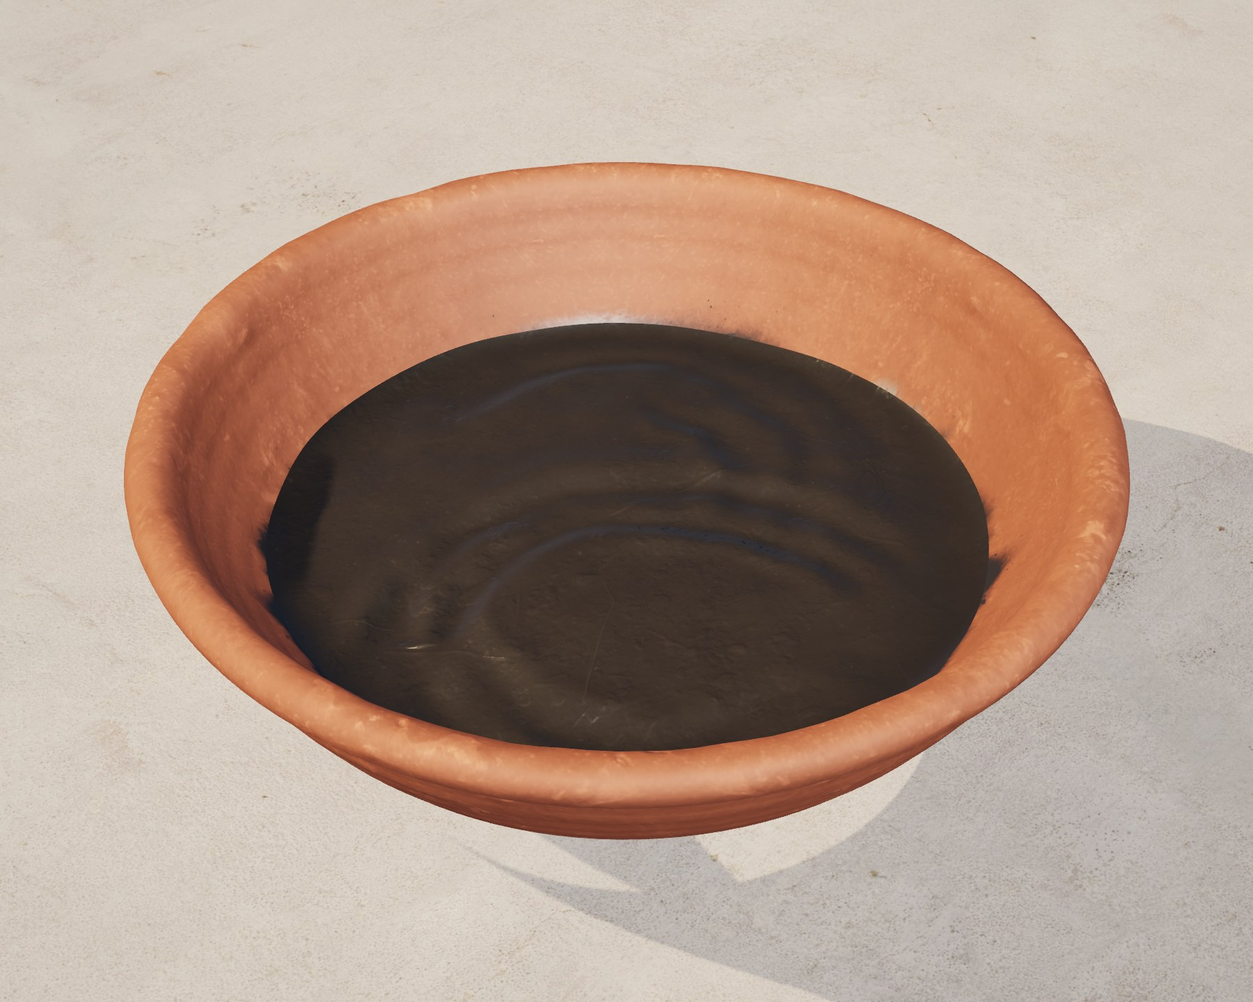
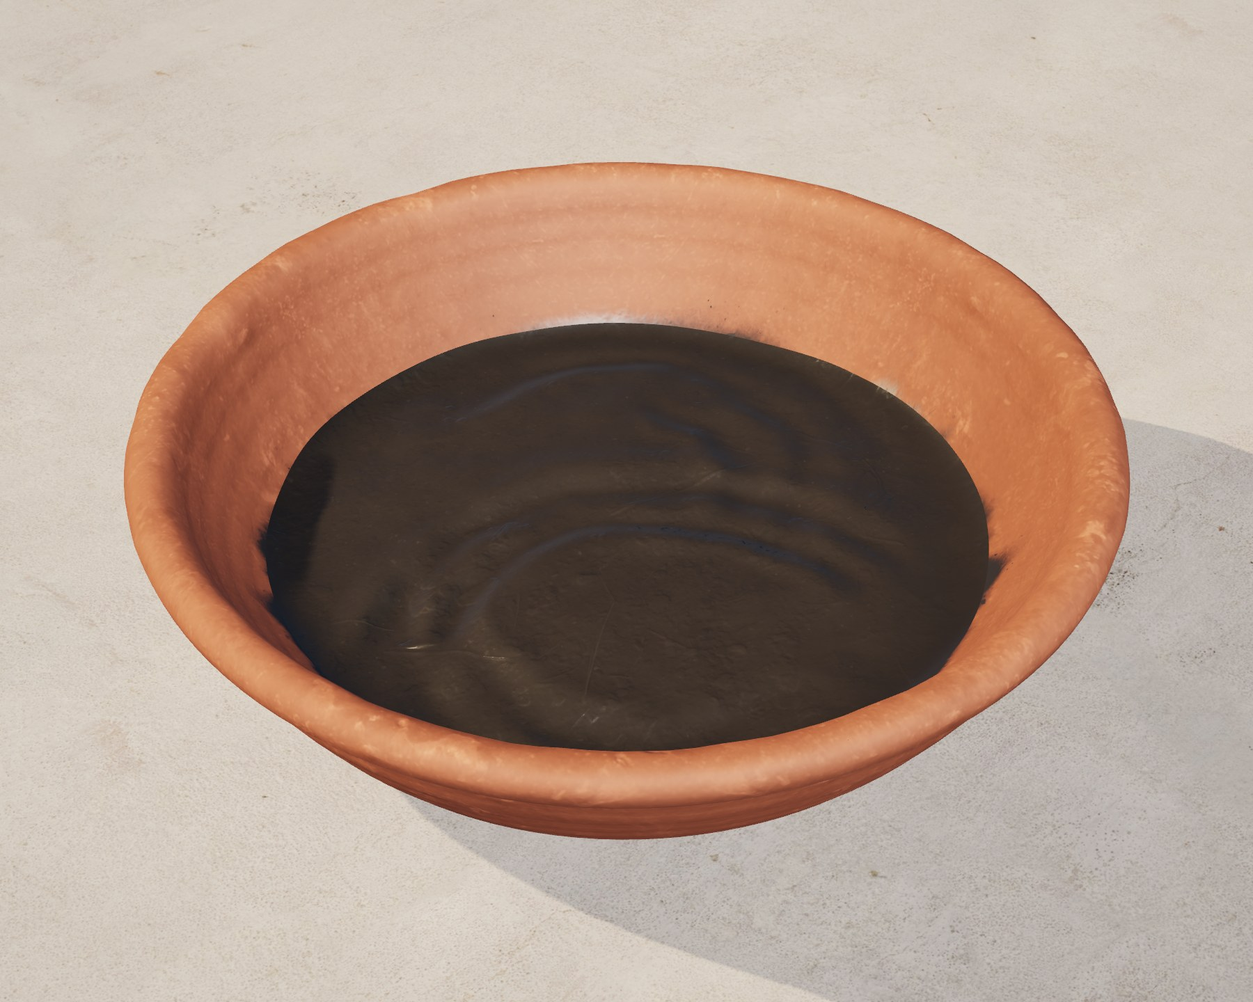
Admit only staff roles at the invite gate, withdraw every session, analyse a reassigned participant once, and let clay vessels stop the sun (DR-105)
hasSiteAccess admitted any signed-in account, so a role-less Google sign-up
could start the demo or enrol in a study without an invite. Withdrawal now
flags every session of the participant, and analytics and the dashboard
telemetry read a reassigned participant in the condition of their analysed
session only. The fired-clay material casts shadows from both faces, so the
shadow bias no longer erases the lower wall and sunlight stops leaking under
the bowl. The 28 Door 1 stills that hold a bowl or pot were rendered again.

Changed region(s): [[0.56, 0.75, 0.7467, 0.875], [0.3111, 0.7812, 0.4978, 0.9062]]

diff --git a/src/server/research/analytics.ts b/src/server/research/analytics.ts
@@ -100,46 +100,40 @@ export interface MetricDistribution {
   nullCount: number;
 }
 
-const ANALYSABLE = "NOT ss.excluded AND NOT ss.withdrawn";
+const ANALYSED_SESSIONS_SQL = `
+  SELECT DISTINCT ON (participant_id) participant_id, id, condition_id, excluded, withdrawn
+    FROM study_sessions
+   WHERE study_id = $1 AND condition_id IS NOT NULL
+   ORDER BY participant_id, period DESC, id DESC`;
 
-/**
- * Outcome distributions from derived_scores: one value per analysable, allocated session and
- * administration (latest row per session, metric, version, assessment and map phase).
- *
- * Final review scoring-07:
- *  - response-level rows (item.key_match, rubric.rating.*) are left out: one session has one row
- *    per item, so a per-session distribution would keep an arbitrary item (the per-item and
- *    per-rubric statistics are on the dashboard);
- *  - each administration is its own distribution: concept-map scores by map phase (one assessment
- *    yields a pre and a post map), every other score by assessment kind, code and version, so the
- *    pre-test, post-test and transfer totals are never pooled (prior knowledge vs outcome);
- *  - concept-map scores are read against the study's analysis reference map only (scoring-04).
- */
+const ANALYSABLE = "NOT an.excluded AND NOT an.withdrawn";
+
 export async function outcomeDistributions(q: Q, studyId: string, opts: { includeExcluded?: boolean } = {}): Promise<MetricDistribution[]> {
   const r = await q.query<{ metric_name: string; metric_version: string; condition_id: string; value: number | null }>(
-    `WITH ar AS (${ANALYSIS_REFERENCES_SQL})
-     SELECT DISTINCT ON (ds.session_id, ds.metric_name, ds.metric_version, ds.assessment_id, cm.phase)
+    `WITH ar AS (${ANALYSIS_REFERENCES_SQL}), an AS (${ANALYSED_SESSIONS_SQL})
+     SELECT DISTINCT ON (an.id, ds.metric_name, ds.metric_version, ds.assessment_id, cm.phase)
             CASE WHEN cm.phase IS NOT NULL THEN ds.metric_name || ' (' || cm.phase::text || ')'
                  ELSE ds.metric_name || ' (' || a.kind::text || ' ' || a.code || ' v' || a.version || ')' END AS metric_name,
-            ds.metric_version, ss.condition_id, ds.value
+            ds.metric_version, an.condition_id, ds.value
        FROM derived_scores ds JOIN study_sessions ss ON ss.id = ds.session_id
+       JOIN an ON an.participant_id = ss.participant_id
        JOIN assessments a ON a.id = ds.assessment_id
        LEFT JOIN concept_maps cm ON cm.id = ds.concept_map_id
        LEFT JOIN ar ON ar.assessment_id = ds.assessment_id
-      WHERE ss.study_id = $1 AND ss.condition_id IS NOT NULL AND ($2 OR (${ANALYSABLE}))
+      WHERE ss.study_id = $1 AND ($2 OR (${ANALYSABLE}))
         AND ds.response_id IS NULL
         AND (ds.concept_map_id IS NULL OR ds.reference_map_id IS NOT DISTINCT FROM ar.reference_map_id)
-      ORDER BY ds.session_id, ds.metric_name, ds.metric_version, ds.assessment_id, cm.phase, ds.computed_at DESC`,
+      ORDER BY an.id, ds.metric_name, ds.metric_version, ds.assessment_id, cm.phase, ss.period DESC, ds.computed_at DESC`,
     [studyId, opts.includeExcluded ?? false],
   );
   return group(r.rows);
 }
 
-/** Behavioural metric distributions from derived_metrics. */
 export async function behaviourDistributions(q: Q, studyId: string, opts: { includeExcluded?: boolean } = {}): Promise<MetricDistribution[]> {
   const r = await q.query<{ metric_name: string; metric_version: string; condition_id: string; value: number | null }>(
-    `SELECT dm.metric_name, dm.metric_version, dm.condition_id, dm.value
-       FROM derived_metrics dm JOIN study_sessions ss ON ss.id = dm.session_id
+    `WITH an AS (${ANALYSED_SESSIONS_SQL})
+     SELECT dm.metric_name, dm.metric_version, dm.condition_id, dm.value
+       FROM derived_metrics dm JOIN an ON an.id = dm.session_id
       WHERE dm.study_id = $1 AND ($2 OR (${ANALYSABLE}))`,
     [studyId, opts.includeExcluded ?? false],
   );
@@ -157,10 +151,10 @@ function group(rows: { metric_name: string; metric_version: string; condition_id
   return [...by.values()].sort((a, b) => (a.metricName < b.metricName ? -1 : 1));
 }
 
-/** Correspondence details (navigation vs concept map) summed per condition. */
 export async function correspondenceSummary(q: Q, studyId: string) {
   const r = await q.query<{ condition_id: string; details: Record<string, number | boolean> }>(
-    `SELECT dm.condition_id, dm.details FROM derived_metrics dm JOIN study_sessions ss ON ss.id = dm.session_id
+    `WITH an AS (${ANALYSED_SESSIONS_SQL})
+     SELECT dm.condition_id, dm.details FROM derived_metrics dm JOIN an ON an.id = dm.session_id
       WHERE dm.study_id = $1 AND dm.metric_name = 'nav.map_correspondence' AND ${ANALYSABLE}`,
     [studyId],
   );
@@ -183,13 +177,10 @@ export interface TransitionMatrix {
   transitions: number;
 }
 
-/**
- * First-order transition matrices between knowledge categories of consecutive concept visits
- * (visit = exposure interval; ../metrics/navigation.ts), per condition.
- */
 export async function transitionMatrices(q: Q, studyId: string): Promise<TransitionMatrix[]> {
   const sess = await q.query<{ id: string; condition_id: string; snapshot_id: string | null }>(
-    `SELECT ss.id, ss.condition_id, ss.snapshot_id FROM study_sessions ss WHERE ss.study_id = $1 AND ${ANALYSABLE}`,
+    `WITH an AS (${ANALYSED_SESSIONS_SQL})
+     SELECT an.id, an.condition_id, ss.snapshot_id FROM an JOIN study_sessions ss ON ss.id = an.id WHERE ${ANALYSABLE}`,
     [studyId],
   );
   const labels = [...KNOWLEDGE_CATEGORY_CODES];

diff --git a/tests/integration/study-engine-review-fixes.test.ts b/tests/integration/study-engine-review-fixes.test.ts
@@ -30,10 +30,13 @@ import {
   completeFamiliarisation,
   submitAssessment,
   syncPosition,
+  withdraw,
   type DeviceReport,
   type EnrollableStudy,
   type OpenedSession,
 } from "../../src/server/study/engine";
+import { behaviourDistributions, outcomeDistributions, transitionMatrices } from "../../src/server/research/analytics";
+import { loadDashboard } from "../../src/server/research/dashboard";
 import { seedInstrumentDefinitions } from "../../src/server/study/instruments";
 import {
   TEST_URL,
@@ -279,5 +282,42 @@ describe.skipIf(!TEST_URL)("study engine: final review fixes", { timeout: 60_000
     expect(attempts.rows).toEqual([{ session_id: s.sessionId, attempt: 1 }, { session_id: out.sessionId, attempt: 2 }]);
     const order = (await state(out.sessionId)).traditionOrder;
     expect(order).toEqual((await state(s.sessionId)).traditionOrder);
+  });
+
+  it("a reassigned participant is analysed once, in the arm of the session that replaced the abandoned one, and withdrawing withdraws both", async () => {
+    const study = await activeStudy({ steps: BASIC_STEPS, webglFailurePolicy: "reassign" }, BASIC);
+    const s = await allocatedTo(study, "immersive");
+    await completeOnboarding(t.pool, s.sessionId);
+    const out = await recordWalkthroughWebglFailure(t.pool, s.sessionId, { webglVersion: null, softwareRenderer: false }, { appBuild: BUILD });
+    expect(out.kind).toBe("reassigned");
+    if (out.kind !== "reassigned") return;
+    const conditionOf = async (sessionId: string) => (await one<{ c: string }>(t.pool, "SELECT condition_id AS c FROM study_sessions WHERE id = $1", [sessionId])).c;
+    const immersiveId = await conditionOf(s.sessionId);
+    const twoDId = await conditionOf(out.sessionId);
+    await t.pool.query(
+      `INSERT INTO derived_metrics (study_id, participant_id, session_id, condition_id, metric_name, metric_version, value, input_event_count, input_sha256, pipeline_version)
+       VALUES ($1, $2, $3, $4, 'time.exposure_total_ms', '1.0.0', 1000, 0, $5, 'test')`,
+      [study.id, s.participantId, s.sessionId, immersiveId, "a".repeat(64)],
+    );
+    await t.pool.query(
+      "INSERT INTO derived_scores (session_id, participant_id, assessment_id, metric_name, metric_version, value, pipeline_version) VALUES ($1, $2, $3, 'assessment.key_match_total', '1.0.0', 2, 'test')",
+      [s.sessionId, s.participantId, ids["fx-pre"]],
+    );
+    const preTotal = async () => (await outcomeDistributions(t.pool, study.id)).find((d) => d.metricName === "assessment.key_match_total (pretest fx-pre v1)");
+    expect(Object.keys((await preTotal())?.byCondition ?? {})).toEqual([twoDId]);
+    expect((await preTotal())!.byCondition[twoDId]).toEqual([2]);
+    expect(await behaviourDistributions(t.pool, study.id)).toEqual([]);
+    expect((await transitionMatrices(t.pool, study.id)).map((m) => m.conditionId)).toEqual([twoDId]);
+    const ownRows = async () => (await loadDashboard(t.pool, study.id))!.telemetry.sessions.filter((r) => r.sessionId === s.sessionId || r.sessionId === out.sessionId);
+    const dashboard = (await loadDashboard(t.pool, study.id))!;
+    expect((await ownRows()).map((r) => [r.sessionId, r.conditionId])).toEqual([[out.sessionId, twoDId]]);
+    expect(dashboard.knowledge.find((k) => k.label === "fx-pre v1 (pretest)")!.byCondition.find((c) => c.conditionId === immersiveId)?.stats.n ?? 0).toBe(0);
+
+    await withdraw(t.pool, { participantId: s.participantId, sessionId: out.sessionId, reason: "no_time" });
+    const flags = await t.pool.query<{ id: string; withdrawn: boolean }>("SELECT id, withdrawn FROM study_sessions WHERE participant_id = $1 ORDER BY period", [s.participantId]);
+    expect(flags.rows).toEqual([{ id: s.sessionId, withdrawn: true }, { id: out.sessionId, withdrawn: true }]);
+    expect(await preTotal()).toBeUndefined();
+    expect(await behaviourDistributions(t.pool, study.id, { includeExcluded: true })).toHaveLength(0);
+    expect(await ownRows()).toEqual([]);
   });
 });

diff --git a/src/server/access/site-access.ts b/src/server/access/site-access.ts
@@ -1,14 +1,3 @@
-/**
- * Server-side half of the invite gate (deployment source change S11).
- *
- * src/proxy.ts redirects visitors without an invite cookie (or a staff session cookie) before a
- * page renders, but it only verifies the cookie's signature and does not look at the database,
- * and it trusts the mere presence of a staff session cookie. The entry points that create a
- * study or demo session (`enterStudy`, `startPublicDemo`) call `requireSiteAccess` as well, so a
- * forged staff cookie or a revoked code can never start one:
- *  - a verified staff session (Better Auth, via getStaffPrincipal) passes;
- *  - otherwise the invite cookie must verify AND its code must not be revoked.
- */
 import "server-only";
 
 import { cookies } from "next/headers";
@@ -17,23 +6,23 @@ import { cache } from "react";
 
 import { invitePath } from "@/lib/access/invite-paths";
 import { serverEnv } from "@/lib/env";
+import { isStaffRole } from "@/lib/permissions/roles";
 import { getStaffPrincipal } from "@/server/auth/staff";
 import { getPool } from "@/server/db/client";
 
 import { INVITE_COOKIE, verifyInviteAccess } from "./invite-cookie";
 import { inviteNotRevoked } from "./invites";
 
-/** Does this request carry valid site access? Memoised per request. */
 export const hasSiteAccess = cache(async (): Promise<boolean> => {
   const token = (await cookies()).get(INVITE_COOKIE)?.value;
   if (token !== undefined) {
     const verified = await verifyInviteAccess(token, serverEnv().BETTER_AUTH_SECRET);
     if (verified.ok && (await inviteNotRevoked(getPool(), verified.claims.inviteId))) return true;
   }
-  return (await getStaffPrincipal()) !== null;
+  const principal = await getStaffPrincipal();
+  return principal !== null && principal.roles.some(isStaffRole);
 });
 
-/** Redirects to the invite page (remembering `next`) unless the request has site access. */
 export async function requireSiteAccess(next: string): Promise<void> {
   if (!(await hasSiteAccess())) redirect(invitePath(next));
 }

diff --git a/src/server/study/engine.ts b/src/server/study/engine.ts
@@ -1712,12 +1712,6 @@ export async function closeStaleSessions(pool: Pool | PoolClient, studyId: strin
 export const WITHDRAWAL_REASONS = ["not_stated", "no_longer_wish_to_take_part", "no_time", "technical_problem", "felt_unwell"] as const;
 export type WithdrawalReason = (typeof WITHDRAWAL_REASONS)[number];
 
-/**
- * Withdraws the participant at any point: a `withdrawn` consent record, the participant marked
- * withdrawn, and the open session (if any) flagged withdrawn. Nothing is deleted: the data
- * already collected is kept under the study's retention policy (config.retentionDays); removing
- * it is a separate, reasoned purge by the research team (app.research_purge_reason).
- */
 export async function withdraw(pool: Pool | PoolClient, input: { participantId: string; sessionId?: string | null; reason: WithdrawalReason }): Promise<{ retentionDays: number | null }> {
   return withTx(pool, async (c) => {
     const p = await loadParticipant(c, input.participantId);
@@ -1740,8 +1734,8 @@ export async function withdraw(pool: Pool | PoolClient, input: { participantId: 
     const sessionId = input.sessionId ?? p.sessionId;
     const retentionDays = study.protocol.config.retentionDays ?? null;
     const after = { reason: input.reason, retentionDays, dataKept: true };
+    await c.query("UPDATE study_sessions SET withdrawn = true, withdrawn_at = coalesce(withdrawn_at, now()) WHERE participant_id = $1 AND NOT withdrawn", [p.id]);
     if (sessionId) {
-      await c.query("UPDATE study_sessions SET withdrawn = true, withdrawn_at = coalesce(withdrawn_at, now()) WHERE id = $1 AND participant_id = $2", [sessionId, p.id]);
       await journal(c, { kind: "participant", code: p.code }, "study.participant_withdrawn", "study_session", sessionId, after);
     } else {
       await journal(c, { kind: "participant", code: p.code }, "study.participant_withdrawn", "participant", p.id, after);

diff --git a/tests/unit/access/site-access.test.ts b/tests/unit/access/site-access.test.ts
@@ -1,0 +1,43 @@
+import { beforeEach, describe, expect, it, vi } from "vitest";
+
+const state = vi.hoisted(() => ({
+  principal: null as null | { roles: readonly string[] },
+  redirected: [] as string[],
+}));
+
+vi.mock("next/headers", () => ({ cookies: async () => ({ get: () => undefined }) }));
+vi.mock("next/navigation", () => ({
+  redirect: (to: string) => {
+    state.redirected.push(to);
+    throw new Error(`redirect ${to}`);
+  },
+}));
+vi.mock("react", async (importOriginal) => ({ ...(await importOriginal<object>()), cache: <T>(fn: T) => fn }));
+vi.mock("@/server/auth/staff", () => ({ getStaffPrincipal: async () => state.principal }));
+vi.mock("@/server/db/client", () => ({ getPool: () => ({}) }));
+
+const { hasSiteAccess, requireSiteAccess } = await import("@/server/access/site-access");
+
+describe("server-side invite gate", () => {
+  beforeEach(() => {
+    state.principal = null;
+    state.redirected = [];
+  });
+
+  it("refuses a signed-in account that holds no staff role, as a fresh Google sign-up does", async () => {
+    state.principal = { roles: [] };
+    expect(await hasSiteAccess()).toBe(false);
+    await expect(requireSiteAccess("/study")).rejects.toThrow("redirect");
+    expect(state.redirected).toEqual(["/invite?next=%2Fstudy"]);
+  });
+
+  it("refuses a visitor with neither an invite nor a session", async () => {
+    expect(await hasSiteAccess()).toBe(false);
+  });
+
+  it("admits a signed-in account that holds a staff role", async () => {
+    state.principal = { roles: ["researcher"] };
+    expect(await hasSiteAccess()).toBe(true);
+    await expect(requireSiteAccess("/explore")).resolves.toBeUndefined();
+  });
+});

diff --git a/tests/e2e/staff-and-access.spec.ts b/tests/e2e/staff-and-access.spec.ts
@@ -110,6 +110,20 @@ test("a signed-in account without a role waits at /awaiting-access until an admi
     await expect(page, path).toHaveURL(/\/awaiting-access$/);
   }
 
+  const uninvited = await newContext(browser, UNINVITED);
+  const stranger = await uninvited.newPage();
+  await signInStaff(stranger, WAITING, PASSWORD);
+  await expect(stranger).toHaveURL(/\/awaiting-access$/);
+  await stranger.goto("/explore");
+  await stranger.getByRole("button", { name: /^Open / }).first().click();
+  await expect(stranger).toHaveURL(/\/invite\?next=%2Fexplore/);
+  await stranger.goto("/study");
+  await stranger.getByLabel("Study code").fill(JOURNEY_STUDY);
+  await stranger.getByRole("button", { name: "Continue" }).click();
+  await expect(stranger).toHaveURL(/\/invite\?next=%2Fstudy/);
+  expect((await uninvited.cookies()).map((c) => c.name).filter((name) => /ie_demo|ie_study_session/.test(name))).toEqual([]);
+  await uninvited.close();
+
   const adminContext = await newContext(browser);
   const admin = await adminContext.newPage();
   await signInStaff(admin, ADMIN, PASSWORD);

diff --git a/tests/unit/walkthrough/vessel-shadow.test.ts b/tests/unit/walkthrough/vessel-shadow.test.ts
@@ -1,0 +1,19 @@
+import * as THREE from "three";
+import { describe, expect, it } from "vitest";
+import { buildThrownVessel } from "@/features/walkthrough/infrastructure/built-vessels";
+import type { MaterialLibrary } from "@/features/walkthrough/infrastructure/material-library";
+
+const library = {
+  shared: <T extends object>(_key: string, build: () => Promise<T>) => build(),
+  scan: async () => ({ colour: new THREE.Texture(), normal: new THREE.Texture(), roughness: new THREE.Texture(), tileMetres: 0.36 }),
+} as unknown as MaterialLibrary;
+
+describe.each(["clay-bowl", "clay-pot"] as const)("thrown %s shadow", (shape) => {
+  it("draws both faces into the shadow map, so the base stops the sun on the ground beside its foot", async () => {
+    const vessel = (await buildThrownVessel(library, shape)) as THREE.Mesh;
+    const material = vessel.material as THREE.MeshStandardMaterial;
+    expect(vessel.castShadow).toBe(true);
+    expect(material.side).toBe(THREE.FrontSide);
+    expect(material.shadowSide).toBe(THREE.DoubleSide);
+  });
+});

diff --git a/src/features/walkthrough/infrastructure/built-vessels.ts b/src/features/walkthrough/infrastructure/built-vessels.ts
@@ -22,5 +22,6 @@ function thrownGeometry(form: ThrownForm): THREE.BufferGeometry {
 
 export async function buildThrownVessel(library: MaterialLibrary, shape: ThrownShape): Promise<THREE.Object3D> {
   const [geometry, material] = await Promise.all([library.shared(`thrown:${shape}`, async () => thrownGeometry(FORMS[shape])), projectedMaterial(library, FIRED_CLAY)]);
+  material.shadowSide = THREE.DoubleSide;
   return solidMesh(geometry, material);
 }

diff --git a/src/server/research/dashboard.ts b/src/server/research/dashboard.ts
@@ -458,7 +458,7 @@ export async function loadDashboard(q: Q, studyId: string, opts: LoadOptions = {
   }
   const telemetrySessions: SessionTelemetryRow[] = [];
   for (const s of sessionInfo.values()) {
-    if (!s.inScope || !s.conditionId) continue;
+    if (!s.inScope || !s.conditionId || analysedSessionOf(s.id) !== s.id) continue;
     const t = tel(s.id);
     telemetrySessions.push({
       sessionId: s.id,

diff --git a/docs/research/design-process/decisions.md b/docs/research/design-process/decisions.md
@@ -3634,3 +3634,13 @@ novice met, and none touches the sheet.
 - **Iris Xe route:** two Ajrakh runs on the headless shell were stopped by a free-RAM guard; the second reached leg 3 with the largest headless-shell process at 7633 MB and free RAM at 291 MB (leg 2 worst frame 34 ms). This is DR-099's open texture-upload cost; the Sanganeri and Kalamkari Iris Xe routes were not attempted for that reason.
 - **Removed:** the low-spec Playwright project matched `immersive-rendering.spec.ts`, deleted with the old doors in DR-076; it now matches only the renderer check.
 - **Paper implications:** none for the study design. The e2e figures above are engineering checks of the study flow, not study data.
+
+## DR-105: The Invite Gate Admits Only Staff Roles; Withdrawal Covers Every Session; A Reassigned Participant Is Analysed Once; Clay Vessels Stop The Sun (Adopted under the lead's delegation, 2026-11-06)
+- **Trigger:** seven review findings against `walking-the-process` at cafa873. Each was confirmed by reading the code or by running it before anything was changed. DR-101 to DR-104 are left to the parallel workflow branches, one of which already uses DR-104.
+- **Invite gate (confirmed, fixed).** `hasSiteAccess` let any signed-in Better Auth account through, so a Google sign-up with no role (DR-096) could start the public demo or enrol in a live study without an invite code. Now an account passes only when it holds a staff role (`roles.some(isStaffRole)`, the same test that `telemetry/principal.ts` and `learning-decision.ts` apply). The proxy still treats a session cookie as admitted, because it cannot read roles without the database. Such an account can read the public information pages and nothing more. RUNBOOK 6.4 now says this. Tests: `tests/unit/access/site-access.test.ts` (it fails against the old code), and the awaiting-access e2e signs a role-less account in from a browser with no invite. Opening the demo and entering a study code both end at `/invite`, and the browser receives no demo or study cookie.
+- **Withdrawal (confirmed, fixed).** `withdraw` flagged only the session in the cookie. After a WebGL reassignment, the abandoned immersive session kept the pre-test and any learning data and stayed analysable. Withdrawal now flags every session of the participant. `withdrawn_at` is set once, and the existing terminal triggers allow this.
+- **Attribution after a reassignment (confirmed, fixed).** Analytics took the condition from the row's own session. A reassigned participant's pre-test therefore counted under immersive and the post-test under 2D. `outcomeDistributions` now reads every score in the condition and scope of the participant's analysed session: the latest period with a condition, the same rule as `analysedSessionOf` on the dashboard. One value per participant and administration is kept. `behaviourDistributions`, `correspondenceSummary`, `transitionMatrices` and the dashboard telemetry summary count the analysed session only, so the abandoned session's partial learning telemetry leaves both arms. It stays in the export and in the data-quality figures. Test: the reassignment case in `tests/integration/study-engine-review-fixes.test.ts`, which fails on the old analytics and on the old withdrawal.
+- **Sun through the clay bowl (confirmed, fixed).** Measured, not inferred. The vessel mesh is wound outward, so the cause is not the winding. A front-side material casts its shadow with its back faces. For a ray that reaches the ground just past the foot, the back face it leaves through is the lower outer wall, within 2 to 3 cm of the ground. The shadow bias (-0.00025 of a 119 m depth range, about 3 cm) erases that occluder. The fired-clay material now casts from both faces (`shadowSide = DoubleSide`), and its look and front-face rendering are unchanged. The renders below are on NVIDIA, with the renderer string confirmed. Alum still, at the leaking pixel (1100,1170): before 220,211,200, after 193,186,181, against the shadow beside it at 186,179,175. Harde still (1100,1180): before 219,209,198, after 190,183,179. Tearing check on Ajrakh n=2 to n=5: 0 failing objects of 62, 75, 50 and 48, with all four planted faults caught. All 53 Door 1 object stills were rendered again. 28 that hold a bowl or pot changed (mean absolute change 0.08 to 0.41 per channel) and were kept; 4 differed only in JPEG bytes (0.000 to 0.004) and were left as committed. Test: `tests/unit/walkthrough/vessel-shadow.test.ts`.
+- **Commit email (confirmed, not changed).** 77 commits carry the personal Hotmail address as author and committer, including 67 that are not pushed (all of origin/main..HEAD). Removing it means rewriting history and changing the git identity. Both are the user's decisions, and the machine rules forbid an agent from switching identity. Nothing was rewritten. Before any push, the user decides whether to rewrite the history to the GitHub noreply address that other commits already use.
+- **Hall shimmer and the Iris Xe frame budget (confirmed, not fixed here).** Both are real and stay open as DR-099 and DR-100 record them. They are being worked in parallel: a filtered-mip branch for the hall photographs and a texture-upload measurement for integrated graphics. A timing figure taken now would be invalid, because another heavy workflow was running on the machine.
+- **Paper implications:** the withdrawal and attribution fixes change what the analytics count for any reassigned or withdrawn participant. Analyses should use the analysed-session rule above.

diff --git a/docs/deploy/RUNBOOK.md b/docs/deploy/RUNBOOK.md
@@ -495,7 +495,7 @@ Staff can sign in with Google as well as with email and password. Participants n
 |---|---|
 | Google email matches an existing staff account, and Google says the email is verified | Google is joined to that account; it signs in with its existing roles |
 | Google email matches an existing staff account, but is not verified by Google | Not joined, no session; the sign-in page says to use the password |
-| New Google account with a verified email | An account with **no role** is made; it lands on "Your account is waiting for an administrator" and opens nothing |
+| New Google account with a verified email | An account with **no role** is made; it lands on "Your account is waiting for an administrator". It cannot start a study, a demo or any staff page: the server-side invite gate admits a signed-in account only when it holds a staff role (DR-105). The proxy cannot read roles, so its session cookie still lets it read the public information pages |
 | New Google account with an unverified email | No account is made |
 | Locked account (`disabled_at` set) | No session, by either method |
 
